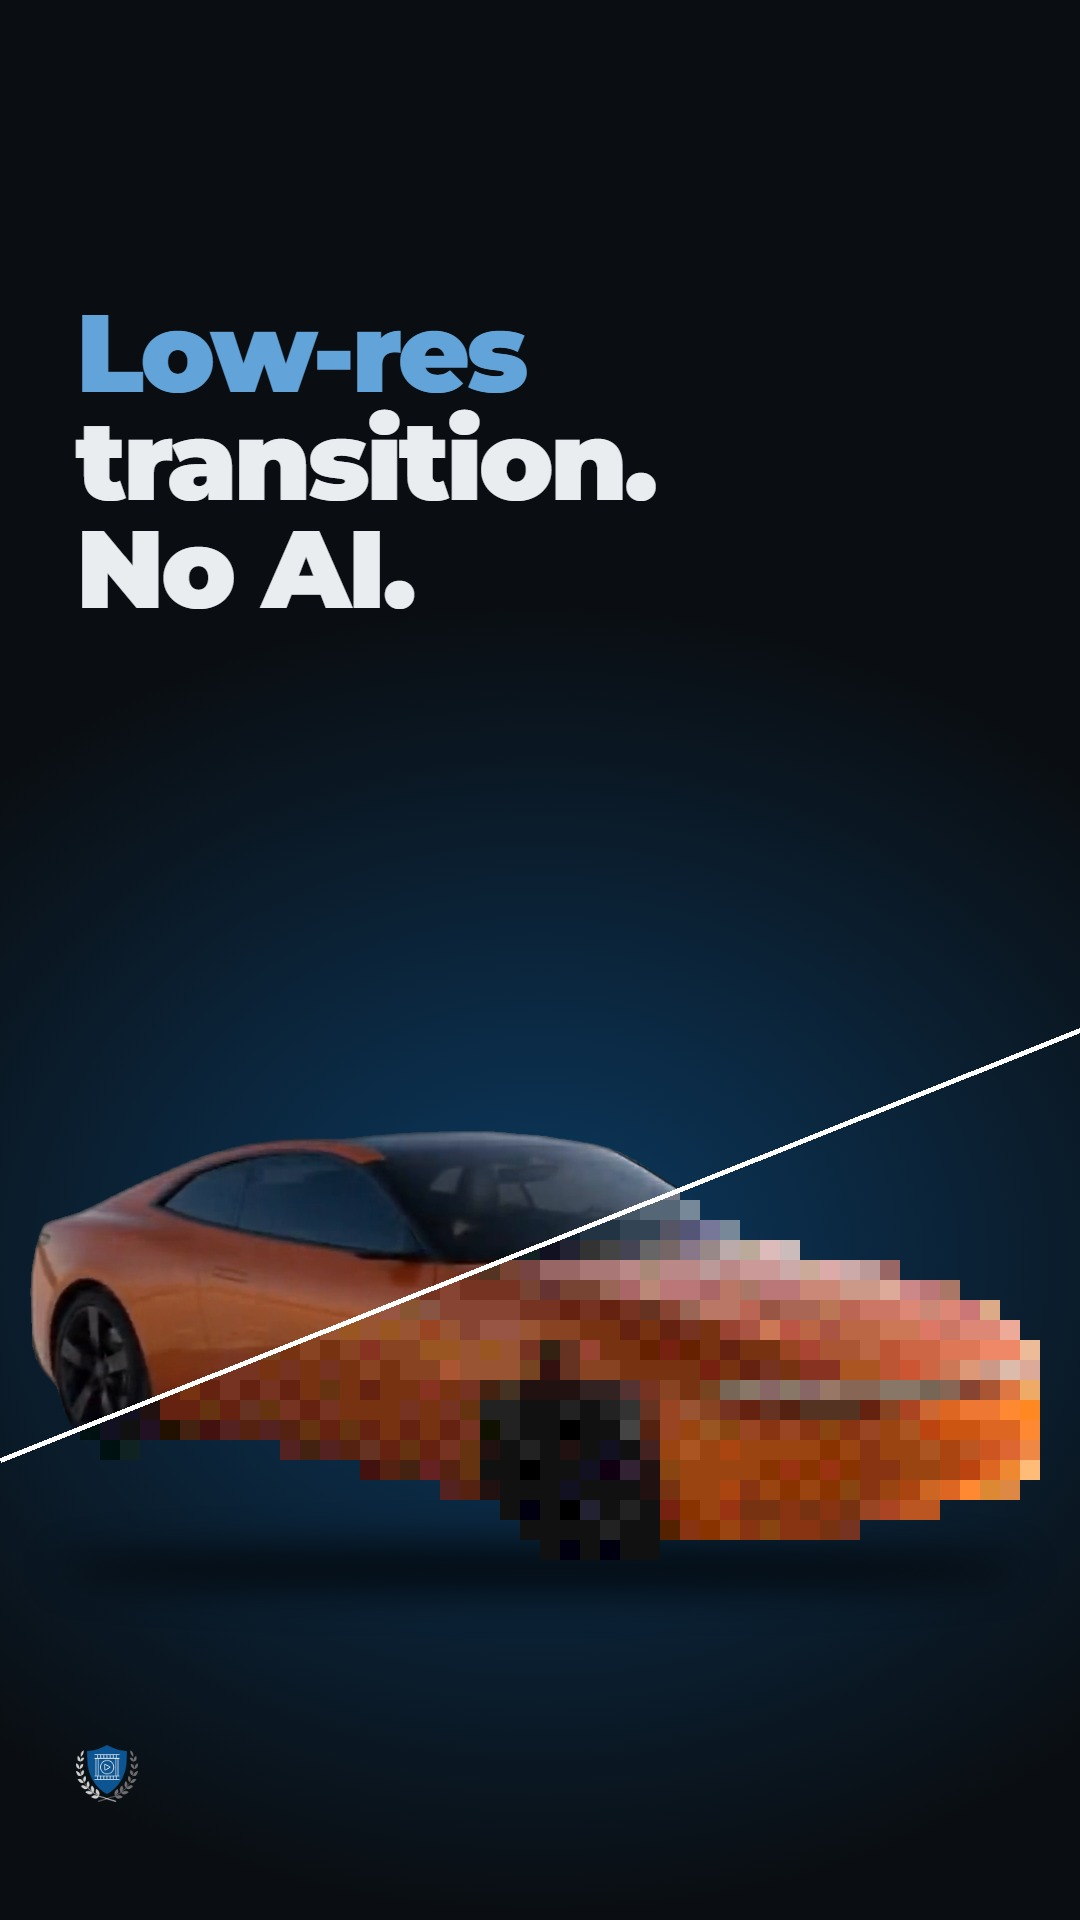
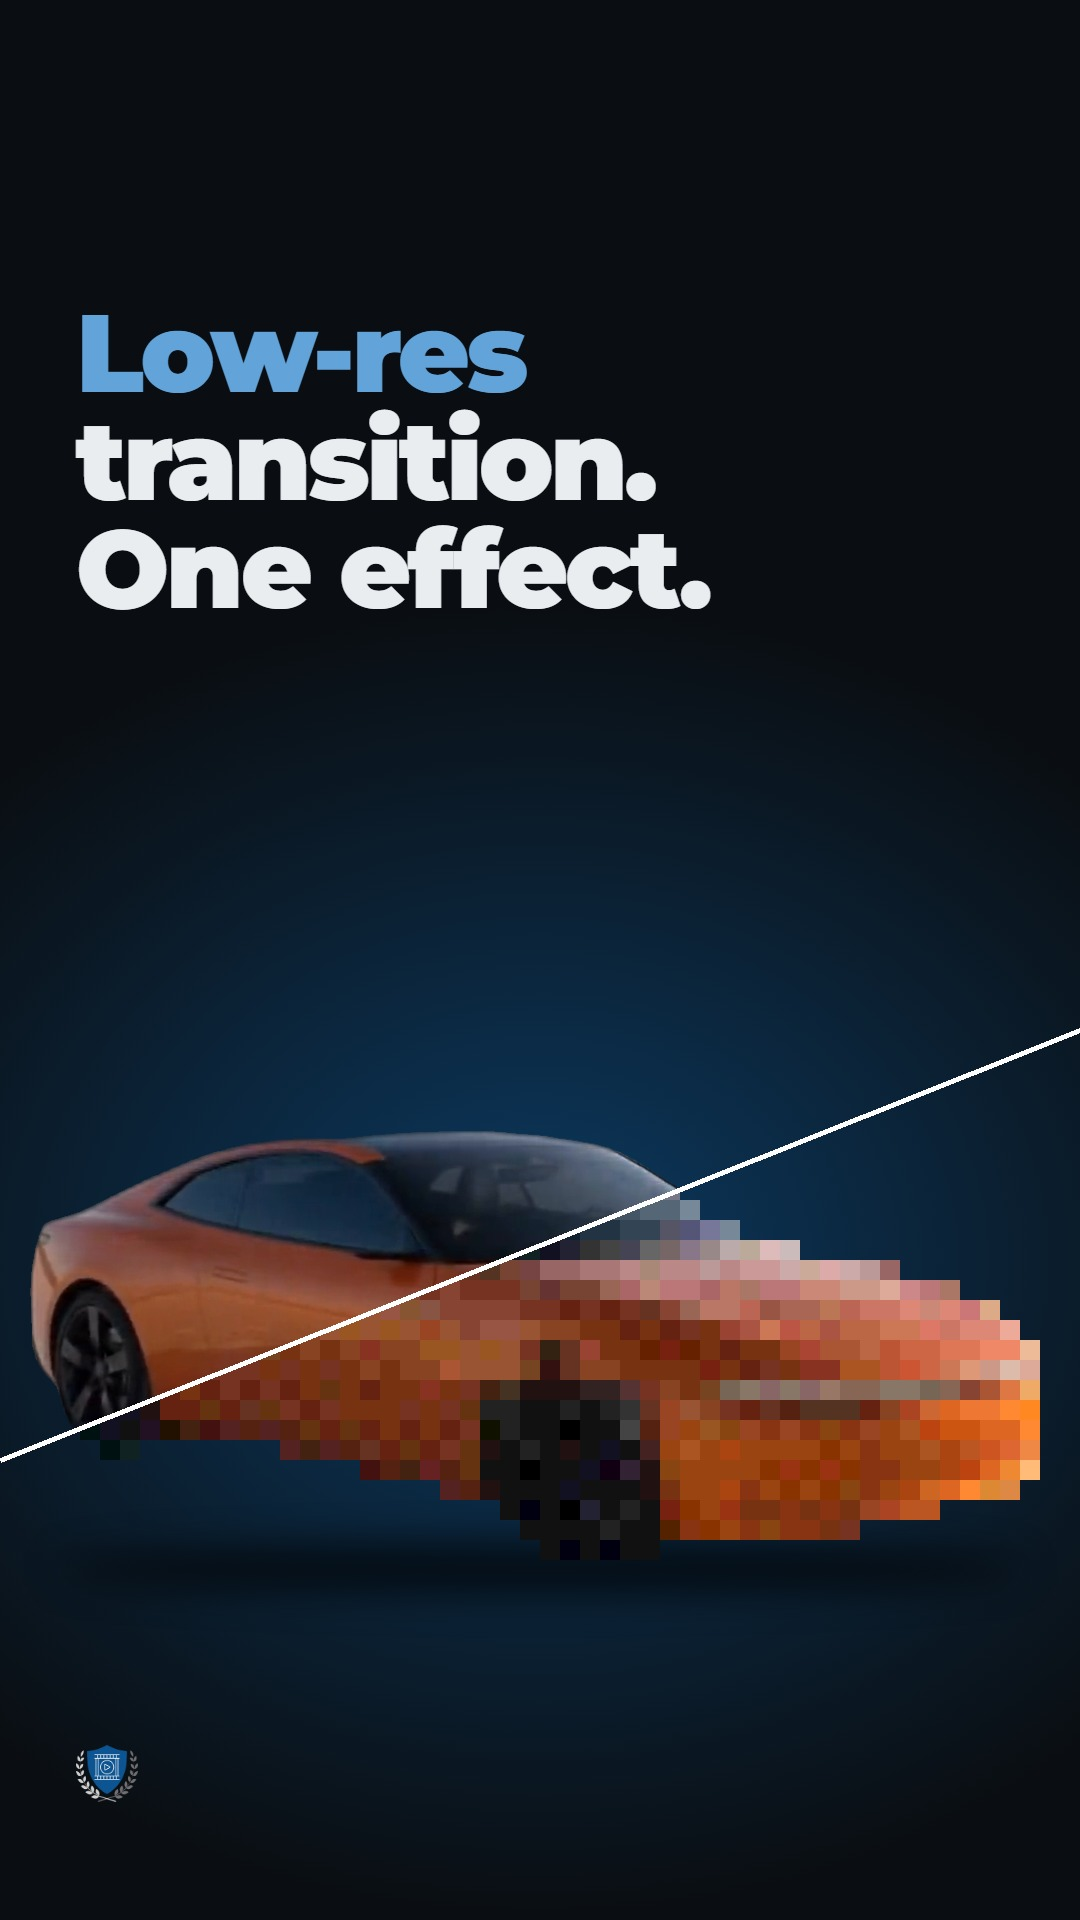
covers: Pixelito ad 1 says One effect, not No AI (its hook car is Veo footage)

Changed region(s): [[0.0611, 0.25, 0.6722, 0.3438]]

diff --git a/art/covers/covers.py b/art/covers/covers.py
@@ -101,8 +101,9 @@ COVERS = [
     dict(slug="chatterbox-ad3", hero=comments, headline="How to create<br><em>fake comments.</em>"),
     # Pixelito: each ad's own subject through Pixelito's maths: ad 1's car (split), ad 2's skater (8-bit), and for
     # ad 3, whose subject is Anthony's face, a sphere in its two tones (the dither). Committed with the launch,
-    # 2026-09-28.
-    dict(slug="pixelito-ad1", hero=picture("pixelito-ad1-art.png"), headline="<em>Low-res</em><br>transition.<br>No AI."),
+    # 2026-09-28. Ad 1's third line was "No AI." until 2026-09-30: its hook car is Veo footage, so it now traces to
+    # the voiceover's "with one effect" (the YouTube thumbnail, picked from the old cover frame, still says No AI).
+    dict(slug="pixelito-ad1", hero=picture("pixelito-ad1-art.png"), headline="<em>Low-res</em><br>transition.<br>One effect."),
     dict(slug="pixelito-ad2", hero=picture("pixelito-ad2-art.png"), headline="<em>Free</em> 8-bit<br>effect."),
     dict(slug="pixelito-ad3", hero=picture("pixelito-ad3-art.png"), headline="<em>Dither</em> effect<br>in one drag."),
 ]
